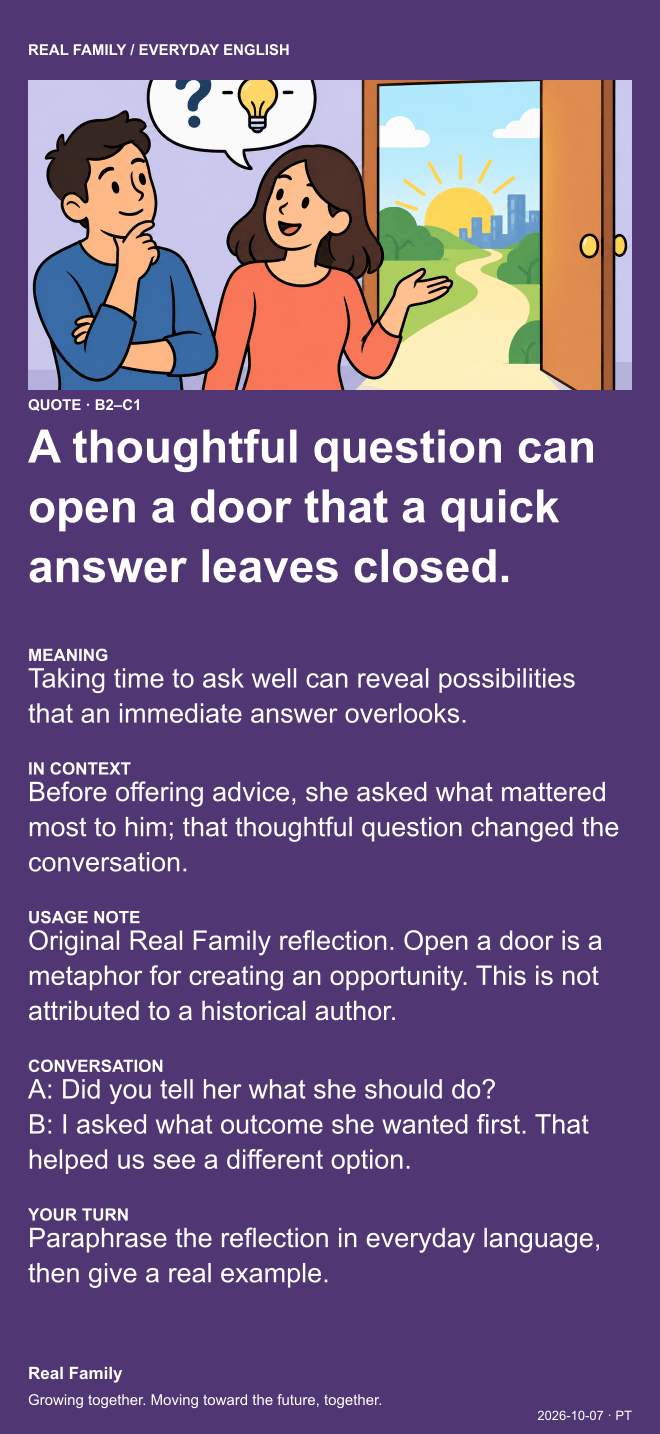
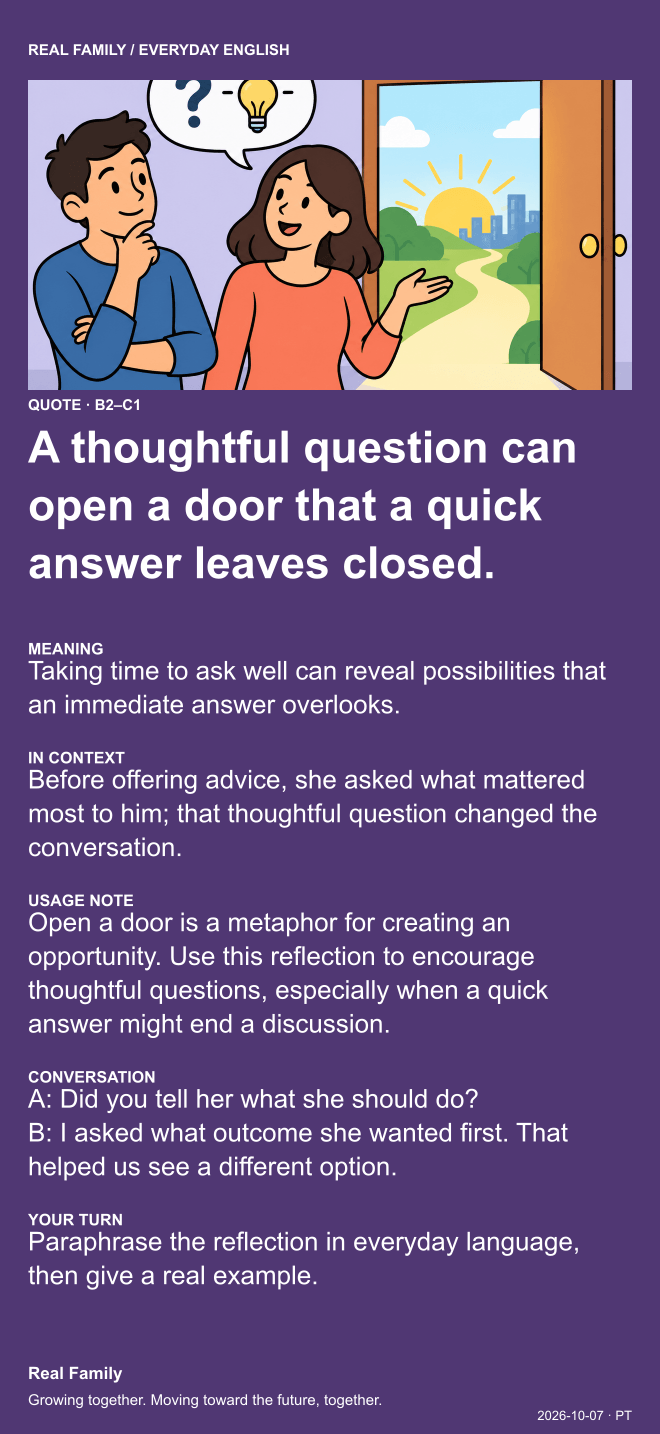
Keep quote usage notes focused on language without branding

Changed region(s): [[0.0303, 0.2762, 0.9394, 0.9205]]

diff --git a/app.js b/app.js
@@ -11,7 +11,7 @@ function news(){return pageHead('THE DAILY PERSPECTIVE','A world worth understan
 function markets(){return pageHead('THE MARKET NOTEBOOK','The world, at the close.','Major equity benchmarks. Local sessions. A clear view of what comes next.')+`<div class="notice">For reference only. Not investment advice. Historical signals describe scenarios, not reliable predictions of tomorrow’s prices.</div><p class="fine">Markets with comparable 2025 country capitalization data are sorted from highest to lowest in USD. Source: ${sourceLink('World Bank / WFE','https://data.worldbank.org/indicator/CM.MKT.LCAP.CD')}, reported domestic listed-company market capitalization. Provider coverage and treatment of multiple listings can affect comparisons. France, United Kingdom and Taiwan lack a comparable 2025 value in this dataset and are shown afterward without a rank. Hong Kong is a separate market. This is a ranking within the displayed markets, not a claim of exhaustive global coverage.</p><p class="fine">Data checked: ${dateLabel(DATA.marketUpdated)} · Source: Google Finance public quote pages · Quotes may be delayed. Session dates below use each exchange’s timezone.</p>${rankedMarkets().map((m,i)=>`<details class="card market-card" ${i===0?'open':''}><summary><span>${m[0]} ${marketBadge(m)}<small class="cap-label">${marketCapLabel(m[0])}</small></span><small>Regular close ${m[2]} · ${m[1]} · ${m[3]} ＋</small></summary><div class="market-content"><div class="table-wrap"><table><thead><tr><th>Benchmark</th><th>Latest quote / close</th><th>Change</th><th>Local session / status</th></tr></thead><tbody>${m[4].map(ix=>{const q=DATA.markets[ix[1]];return `<tr><td>${sourceLink(ix[0],q?.source||`https://www.google.com/finance/?q=${encodeURIComponent(ix[0])}` )}</td><td>${q?.close!=null?Number(q.close).toLocaleString('en-US',{maximumFractionDigits:2}):'Unavailable'}</td><td class="${q?.change>=0?'positive':'negative'}">${q?.change!=null?(q.change>=0?'+':'')+q.change.toFixed(2)+'%':'—'}</td><td>${q?escapeHTML(q.session)+' · Local market date ('+escapeHTML(q.timezone)+') · '+escapeHTML(q.state)+' · '+escapeHTML(q.marketStatus)+'<br><span class="fine">Quote time: '+escapeHTML(q.quoteAt||q.session)+' · Local exchange time</span><br><span class="fine">Updated '+dateLabel(q.updated)+'</span>'+(DATA.status[ix[1]]?.ok===false?'<br><span class="fine">Latest Google Finance fetch unavailable; earlier Google data retained.</span>':''):'No verified data'}</td></tr><tr><td colspan="4"><div class="analysis"><strong>${ix[0]} · Technical observation</strong><br>${q?.marketStatus==='Closed'&&q?.analysisReady&&q?.analysis?escapeHTML(q.analysis):escapeHTML(q?.marketStatus&&q.marketStatus!=='Closed'&&q.marketStatus!=='Status unavailable'?'This market has not closed yet.':q?.analysisStatus||'Analysis is withheld until the next scheduled update after a verified close.')} ${q?.analysisEligibleAt&&!q.analysisReady&&q.marketStatus==='Closed'?'<span class="fine">Next eligible update: '+dateLabel(q.analysisEligibleAt)+'</span>':''}<details><summary>Top 10 constituents by traded value</summary><p>No verified constituent-level turnover feed is connected. Price × volume is only an estimate, and an index itself has no cash turnover. This ranking will remain unavailable until complete constituent coverage and actual traded-value data are verified.</p></details></div></td></tr>`}).join('')}</tbody></table></div><p class="fine">Analysis is released at the first scheduled three-hour update after the verified exchange close, once the matching session data is available. Regular close excludes early-close days, holidays and auctions. An incomplete daily bar is labelled provisional; next-session observations apply to the next trading session, not necessarily the next calendar day.</p></div></details>`).join('')}` }
 function health(){return pageHead('CARE FOR EVERY CHAPTER','Live well, at every age.','Ten life-stage profiles. Nutrition priorities, practical supplements, and measurable movement goals.')+archivePicker('health')+`<div class="notice">Daily nutrient targets below include food, fortified foods and supplements combined; they are not automatic pill doses. These U.S. reference values concern generally healthy people. Pregnancy, illness and medications may change needs. Alcohol is not recommended as a health strategy.</div><p class="fine">Sex differences are shown where supported, especially iron and calcium. Infant and prepubertal feeding and exercise targets are generally shared; growth charts differ by sex. Menstrual and reproductive circumstances matter more than a label alone. Reviewed October 7, 2026 · PT.</p><div class="health-profiles">${(HEALTH_EDITION?.profiles||HEALTH_PROFILES).map(p=>`<section class="card health-profile"><p class="eyebrow">${p.stage} · ${p.sex}</p><h2>${p.stage} · ${p.sex}</h2><p class="fine">${p.age}</p><p class="health-focus">${escapeHTML(p.focus)}</p>${[['Food & nutrition',p.food],['Vitamins & supplements',p.supplements],['Movement · how much?',p.move]].map(([title,rows])=>`<h3>${title}</h3><ul>${rows.map(t=>`<li>${escapeHTML(t)}</li>`).join('')}</ul>`).join('')}</section>`).join('')}</div><p class="fine">Verified foundations: ${[['NIH calcium','https://ods.od.nih.gov/factsheets/Calcium-Consumer/'],['NIH iron','https://ods.od.nih.gov/factsheets/Iron-Consumer/'],['NIH vitamin D','https://ods.od.nih.gov/factsheets/VitaminD-Consumer/'],['NIH folate','https://ods.od.nih.gov/factsheets/Folate-Consumer/'],['NIH B12','https://ods.od.nih.gov/factsheets/VitaminB12-Consumer/'],['WHO activity','https://www.who.int/news-room/fact-sheets/detail/physical-activity'],['WHO under-5 activity','https://www.who.int/publications/i/item/9789241550536'],['WHO growth charts','https://www.who.int/tools/child-growth-standards/standards/weight-for-age'],['CDC infant vitamin D','https://www.cdc.gov/breastfeeding-special-circumstances/hcp/diet-micronutrients/vitamin-d.html'],['CDC child activity','https://www.cdc.gov/physical-activity-basics/guidelines/children.html']].map(([n,u])=>sourceLink(n,u)).join(' · ')}</p><section class="section-spaced"><div class="section-line"><h2>From the research desk</h2><span class="fine">A growing research archive</span></div><p class="fine">Last search: ${dateLabel(HEALTH_EDITION?.researchChecked||DATA.researchChecked||DATA.researchUpdated)} · Last new additions: ${dateLabel(HEALTH_EDITION?.researchUpdated||DATA.researchUpdated)}. New unique publications are appended daily; if none are found, previous records stay available. Discovery dates use PT; publication dates belong to the journal record. These are research leads, not reviewed clinical recommendations.</p><label class="edition-picker">Find research additions by date · PT<input type="date" id="research-date" value="${researchDate==='All'?'':researchDate}"></label><button class="listen" data-action="research-all">Show all research additions</button><div class="news-grid">${healthResearch().filter(r=>r.visible!==false).filter(r=>researchDate==='All'||r.discoveredDate===researchDate).map(r=>`<article class="card"><span class="eyebrow">${escapeHTML(r.type||'Research')}</span><h3>${sourceLink(r.title,r.url)}</h3><p class="fine">${escapeHTML(r.journal)} · Publication: ${escapeHTML(r.date)} · Added ${escapeHTML(r.discoveredDate||'Legacy entry')} · PT</p>${r.abstractExcerpt?`<p class="research-excerpt"><strong>Abstract excerpt</strong><br>${escapeHTML(r.abstractExcerpt)}</p>`:''}<p class="fine">${escapeHTML(r.population||'Population and study limitations require full-text review')}</p></article>`).join('')||'<p class="empty">No new additions for this date.</p>'}</div></section>`}
 function recipes(){const catalog=KITCHEN_EDITION?.recipes||DATA.kitchen?.recipes||FAMILY_RECIPES;const featured=KITCHEN_EDITION?.recipeIndices||DATA.kitchen?.recipeIndices||DATA.daily?.recipeIndices||[];const items=catalog.filter(r=>(cuisine==='All'||r.cuisine===cuisine)&&(meal==='All'||r.meal===meal));return pageHead('AT THE FAMILY TABLE','A taste of somewhere new.','Thoughtfully prepared meals and treats, with generous portions for six.')+archivePicker('recipes')+chips(['All','Main','Snack'],meal,'meal')+chips(['All',...CUISINES],cuisine,'cuisine')+`<p class="fine">${items.length} recipes · Each daily edition: 10 themes × 2 new dishes · All recipes serve 6 · Ingredient weights refer to edible portions unless stated · 1 tbsp = 15 mL; 1 tsp = 5 mL</p><div class="grid recipe-grid">${items.map(r=>`<article class="card recipe-card">${r.photo?`<figure class="recipe-photo"><img src="${escapeHTML(r.photo.url)}" alt="${escapeHTML(r.photo.alt)}" loading="lazy"><figcaption>Illustrative photo · ${sourceLink(r.photo.author,r.photo.source)} · ${sourceLink(r.photo.license,r.photo.licenseUrl)}</figcaption></figure>`:''}<p class="tags">${featured.includes(catalog.indexOf(r))?((KITCHEN_EDITION||DATA.kitchen)?.generation?.kind==='new-daily-recipes'?'NEW EDITION · ':'DAILY PICK · '):''}${r.cuisine.toUpperCase()} · ${r.meal.toUpperCase()}</p><h3>${escapeHTML(r.title)}</h3><p class="recipe-meta"><strong>Serves 6</strong> · Prep ${r.prep} min · Cook ${r.cook} min</p><details><summary>Ingredients & step-by-step method</summary><h4>Ingredients · 6 servings</h4><ul class="ingredients">${r.ingredients.map(x=>`<li><span>${escapeHTML(x.name)}</span><strong>${escapeHTML(x.amount)}</strong></li>`).join('')}</ul><h4>Method</h4><ol class="method">${r.steps.map(x=>`<li>${escapeHTML(x)}</li>`).join('')}</ol><p class="recipe-tip"><strong>Kitchen note</strong><br>${escapeHTML(r.note)}</p><p class="fine">Allergens: ${escapeHTML(r.allergens)}. Check every product label.</p>${r.storage?`<p class="recipe-tip"><strong>Storage & leftovers</strong><br>${escapeHTML(r.storage)}</p>`:''}<div class="recipe-video"><h4>Learn by watching</h4>${r.video?sourceLink('▶ Watch a similar recipe on YouTube',r.video):''}<br>${sourceLink('Find more video tutorials on YouTube',r.videoSearch)}<p class="fine">External demonstrations may use different ingredients and serving sizes. Follow the six-serving quantities above for this recipe.</p></div></details></article>`).join('')}</div><p class="fine section-spaced">Food safety: wash produce, prevent cross-contamination, and refrigerate perishable leftovers promptly. Cook poultry to 165°F / 74°C and fish to 145°F / 63°C. ${sourceLink('USDA safe temperatures','https://www.fsis.usda.gov/food-safety/safe-food-handling-and-preparation/food-safety-basics/safe-temperature-chart')}</p>`}
-function english(){if(!currentEdition()?.lessons?.length)return pageHead('A LITTLE ENGLISH, EVERY DAY','Find the words for your world.','B2–C2 English: precise vocabulary, nuanced expression, and confident conversation.')+'<p class="notice" role="status">Loading the daily lesson archive. Please refresh if the cards do not appear.</p>';const lessons=activeLessons();return pageHead('A LITTLE ENGLISH, EVERY DAY','Find the words for your world.','B2–C2 English: precise vocabulary, nuanced expression, and confident conversation.')+`<p class="fine">Daily edition: ${escapeHTML(currentEdition()?.date||'Loading')} · PT. Ten new topics per edition, with a growing permanent archive. Previous topics are checked before publishing; older editions retain their original date.</p>`+dateBrowser('english')+`<div class="edition-download"><button type="button" class="button" data-download-all>↓ Download all 10 cards</button><p class="fine">One ZIP file · All ten original PNG cards for the selected date, including every category.</p><p id="bulk-card-status" class="fine" role="status" aria-live="polite"></p></div>`+chips(['All',...LESSONS.map(l=>l.category)],lessonCategory,'lesson')+`<p id="card-status" class="fine" role="status" aria-live="polite"></p><div class="lesson-grid">${lessons.filter(l=>lessonCategory==='All'||l.category===lessonCategory).map(l=>`<article class="lesson ${l.color}">${currentLanguage==='en'?`<img class="lesson-poster" src="data/english-images/${currentEdition()?.date}/${encodeURIComponent(cardFilename(l))}?revision=${currentEdition()?.revision||1}" alt="${escapeHTML(l.title)} — complete English learning card, portrait screen proportions" loading="lazy">`:`<img class="lesson-illustration" src="${l.illustration}" alt="${escapeHTML(l.title)} illustration" loading="lazy">`}<div class="lesson-body"><p class="eyebrow">${l.category} · ${escapeHTML(l.level||'B2–C1')}</p><div class="card-actions"><button class="listen" data-action="speak" data-value="${escapeHTML(l.title)}">▷ Listen</button><button class="listen" data-action="speak-conversation" data-value="${l.id}" aria-label="Listen to the conversation for ${escapeHTML(l.title)}" aria-pressed="false">▷ Listen to conversation</button><button class="listen" data-action="share-card" data-value="${l.id}" aria-label="Share ${escapeHTML(l.category)} card">↗ Share</button><button class="listen" data-action="save-card" data-value="${l.id}" aria-label="Save ${escapeHTML(l.category)} card as an image">↓ Save image</button></div>${currentLanguage!=='en'?`<div class="translated-lesson"><h3>${escapeHTML(l.title)}</h3><p class="definition">${escapeHTML(l.meaning)}</p><p>${escapeHTML(l.example)}</p><p>${escapeHTML(l.notes)}</p><p>${escapeHTML(l.conversation).replace(/\n/g,'<br>')}</p><p><strong>${escapeHTML(l.exercise)}</strong></p></div>`:''}</div></article>`).join('')}</div><p class="fine section-spaced">Share a complete English PNG card through your device’s supported apps, or save it and attach it in a chat. Native image sharing depends on your browser and installed apps; when unavailable, Share downloads the image. Exported cards use the original English, including when the page is translated. Quote cards use original Real Family reflections.</p>`}
+function english(){if(!currentEdition()?.lessons?.length)return pageHead('A LITTLE ENGLISH, EVERY DAY','Find the words for your world.','B2–C2 English: precise vocabulary, nuanced expression, and confident conversation.')+'<p class="notice" role="status">Loading the daily lesson archive. Please refresh if the cards do not appear.</p>';const lessons=activeLessons();return pageHead('A LITTLE ENGLISH, EVERY DAY','Find the words for your world.','B2–C2 English: precise vocabulary, nuanced expression, and confident conversation.')+`<p class="fine">Daily edition: ${escapeHTML(currentEdition()?.date||'Loading')} · PT. Ten new topics per edition, with a growing permanent archive. Previous topics are checked before publishing; older editions retain their original date.</p>`+dateBrowser('english')+`<div class="edition-download"><button type="button" class="button" data-download-all>↓ Download all 10 cards</button><p class="fine">One ZIP file · All ten original PNG cards for the selected date, including every category.</p><p id="bulk-card-status" class="fine" role="status" aria-live="polite"></p></div>`+chips(['All',...LESSONS.map(l=>l.category)],lessonCategory,'lesson')+`<p id="card-status" class="fine" role="status" aria-live="polite"></p><div class="lesson-grid">${lessons.filter(l=>lessonCategory==='All'||l.category===lessonCategory).map(l=>`<article class="lesson ${l.color}">${currentLanguage==='en'?`<img class="lesson-poster" src="data/english-images/${currentEdition()?.date}/${encodeURIComponent(cardFilename(l))}?revision=${currentEdition()?.revision||1}" alt="${escapeHTML(l.title)} — complete English learning card, portrait screen proportions" loading="lazy">`:`<img class="lesson-illustration" src="${l.illustration}" alt="${escapeHTML(l.title)} illustration" loading="lazy">`}<div class="lesson-body"><p class="eyebrow">${l.category} · ${escapeHTML(l.level||'B2–C1')}</p><div class="card-actions"><button class="listen" data-action="speak" data-value="${escapeHTML(l.title)}">▷ Listen</button><button class="listen" data-action="speak-conversation" data-value="${l.id}" aria-label="Listen to the conversation for ${escapeHTML(l.title)}" aria-pressed="false">▷ Listen to conversation</button><button class="listen" data-action="share-card" data-value="${l.id}" aria-label="Share ${escapeHTML(l.category)} card">↗ Share</button><button class="listen" data-action="save-card" data-value="${l.id}" aria-label="Save ${escapeHTML(l.category)} card as an image">↓ Save image</button></div>${currentLanguage!=='en'?`<div class="translated-lesson"><h3>${escapeHTML(l.title)}</h3><p class="definition">${escapeHTML(l.meaning)}</p><p>${escapeHTML(l.example)}</p><p>${escapeHTML(l.notes)}</p><p>${escapeHTML(l.conversation).replace(/\n/g,'<br>')}</p><p><strong>${escapeHTML(l.exercise)}</strong></p></div>`:''}</div></article>`).join('')}</div><p class="fine section-spaced">Share a complete English PNG card through your device’s supported apps, or save it and attach it in a chat. Native image sharing depends on your browser and installed apps; when unavailable, Share downloads the image. Exported cards use the original English, including when the page is translated. Quote cards use original reflections for language practice.</p>`}
 
 let activeAudioButton=null;
 function playLessonAudio(text,button){

diff --git a/scripts/generate_english.py b/scripts/generate_english.py
@@ -70,7 +70,7 @@ CRITICAL SCHEMA: image is ONLY a category STRING: "vocabulary", "phrasal", "idio
 The two phrasal lessons MUST teach verb + particle constructions (for example a verb followed by up/out/off), not a single verb or noun. The grammar lesson MUST teach an advanced grammatical contrast with a correct rule, not vocabulary. Match each title to its declared category. C2 lessons require real pragmatic or semantic distinctions in notes and exercises. Do not reuse a familiar saying as an original quote.
 Counts: vocabulary 2, phrasal 2, idiom 2, life 1, grammar 1, quote 1, small-talk 1. Levels B2 4, C1 4, C2 2.
 Teach native-like collocations and pragmatic nuance. C2 must teach register, implied meaning or precise semantic contrasts, not relabel basic material.
-Quote must be ORIGINAL, no author attribution. Each lesson 110-170 words total, maximum 190; title under 55 characters. All have a clear definition, natural example, specific usage warning, 4 alternating A:/B: dialogue lines, and a concrete exercise with a short model answer. Small-talk has SIX alternating A:/B: lines, with follow-up questions and natural replies. Use actual newline characters in conversation.
+Quote must be ORIGINAL, no author attribution. Quote usage notes must explain metaphor, register, context or pragmatic meaning only; never mention Real Family, our brand, authorship, or promotional claims. Each lesson 110-170 words total, maximum 190; title under 55 characters. All have a clear definition, natural example, specific usage warning, 4 alternating A:/B: dialogue lines, and a concrete exercise with a short model answer. Small-talk has SIX alternating A:/B: lines, with follow-up questions and natural replies. Use actual newline characters in conversation.
 Avoid repeated titles, synonyms with the same teaching point, paraphrases of past meanings, and repeated grammar rules. Use the complete past curriculum below as excluded teaching points.
 scene describes a simple flat 2D comic that clearly demonstrates THIS meaning, NOT its category. No generic category pictures. Return background (#hex), description (what visual event explains the lesson), characters (1-3), props (0-5).
 characters: x (140..500), y (65..105), scale (0.85,1,1.15), shirt (#hex), flip (boolean), face (happy,skeptical,worried,calm,neutral,curious,determined), pose (up,reach,cross,think,point,down).

diff --git a/scripts/release_english.py b/scripts/release_english.py
@@ -10,6 +10,7 @@ def validate(root,edition):
  assert len({l['id'] for l in lessons})==10
  seen=set();pictures=set()
  for l in lessons:
+  if l['image']=='quote':assert 'real family' not in l.get('notes','').casefold(),'Quote usage notes must focus on language, without branding'
   if l['image']=='small-talk':
    turns=l['conversation'].replace('\\n','\n').splitlines();assert len(turns)>=6 and all(t.startswith(('A:','B:')[i%2]) for i,t in enumerate(turns)),'Small talk needs at least six alternating turns'
   if 'level' in l:assert l['level'] in {'B2','C1','C2'},'Invalid CEFR level'
